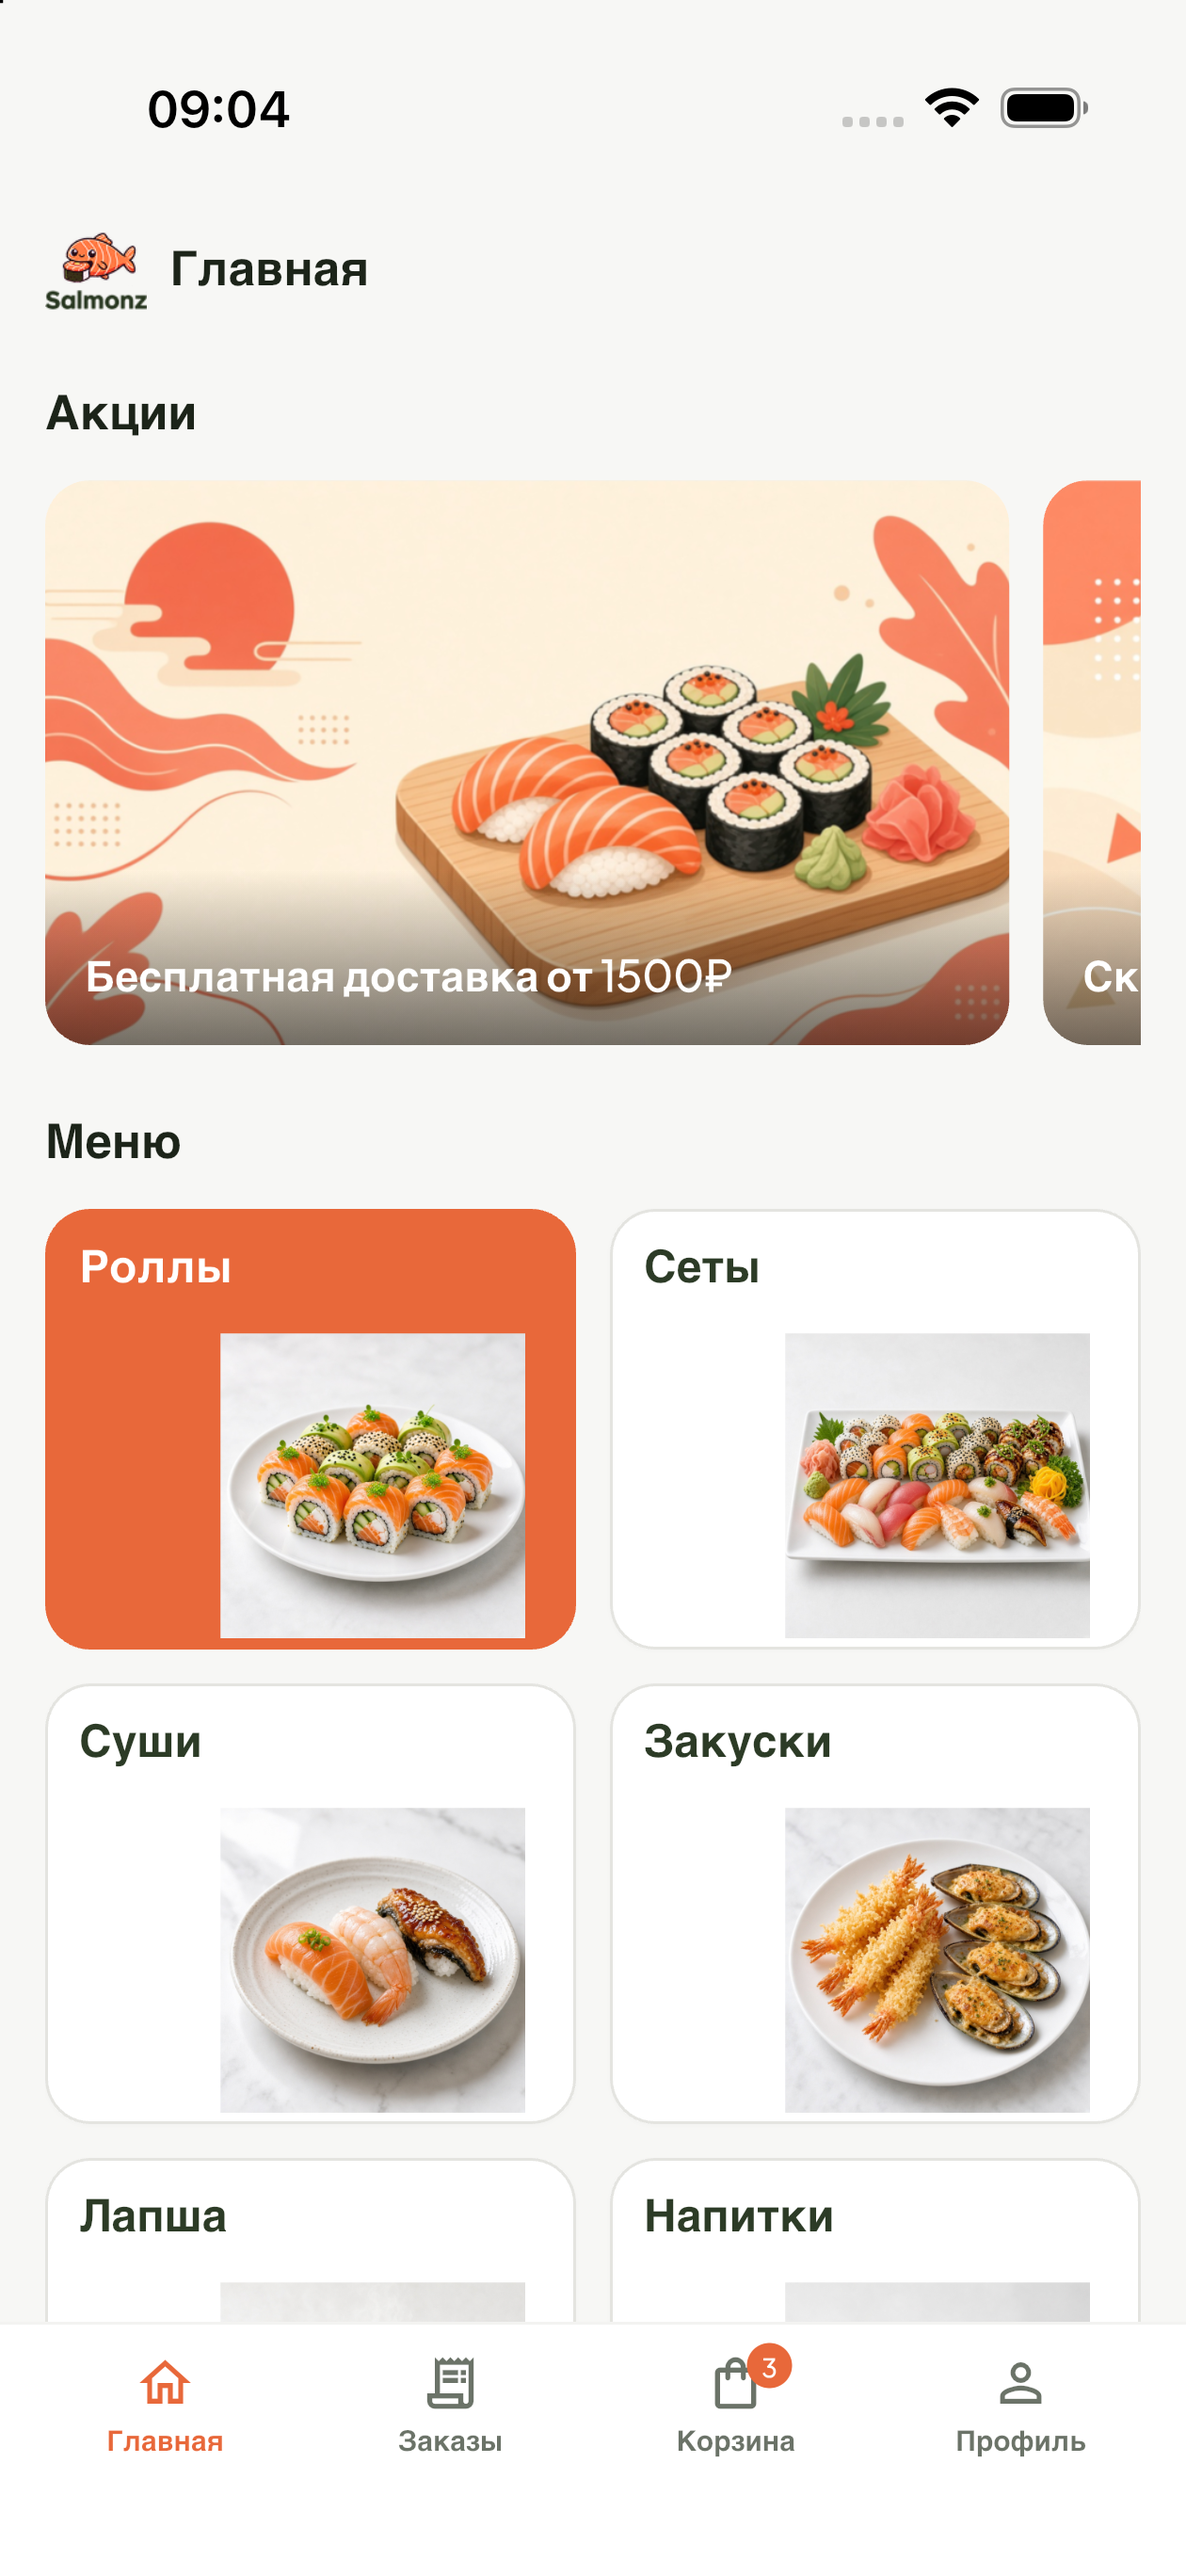
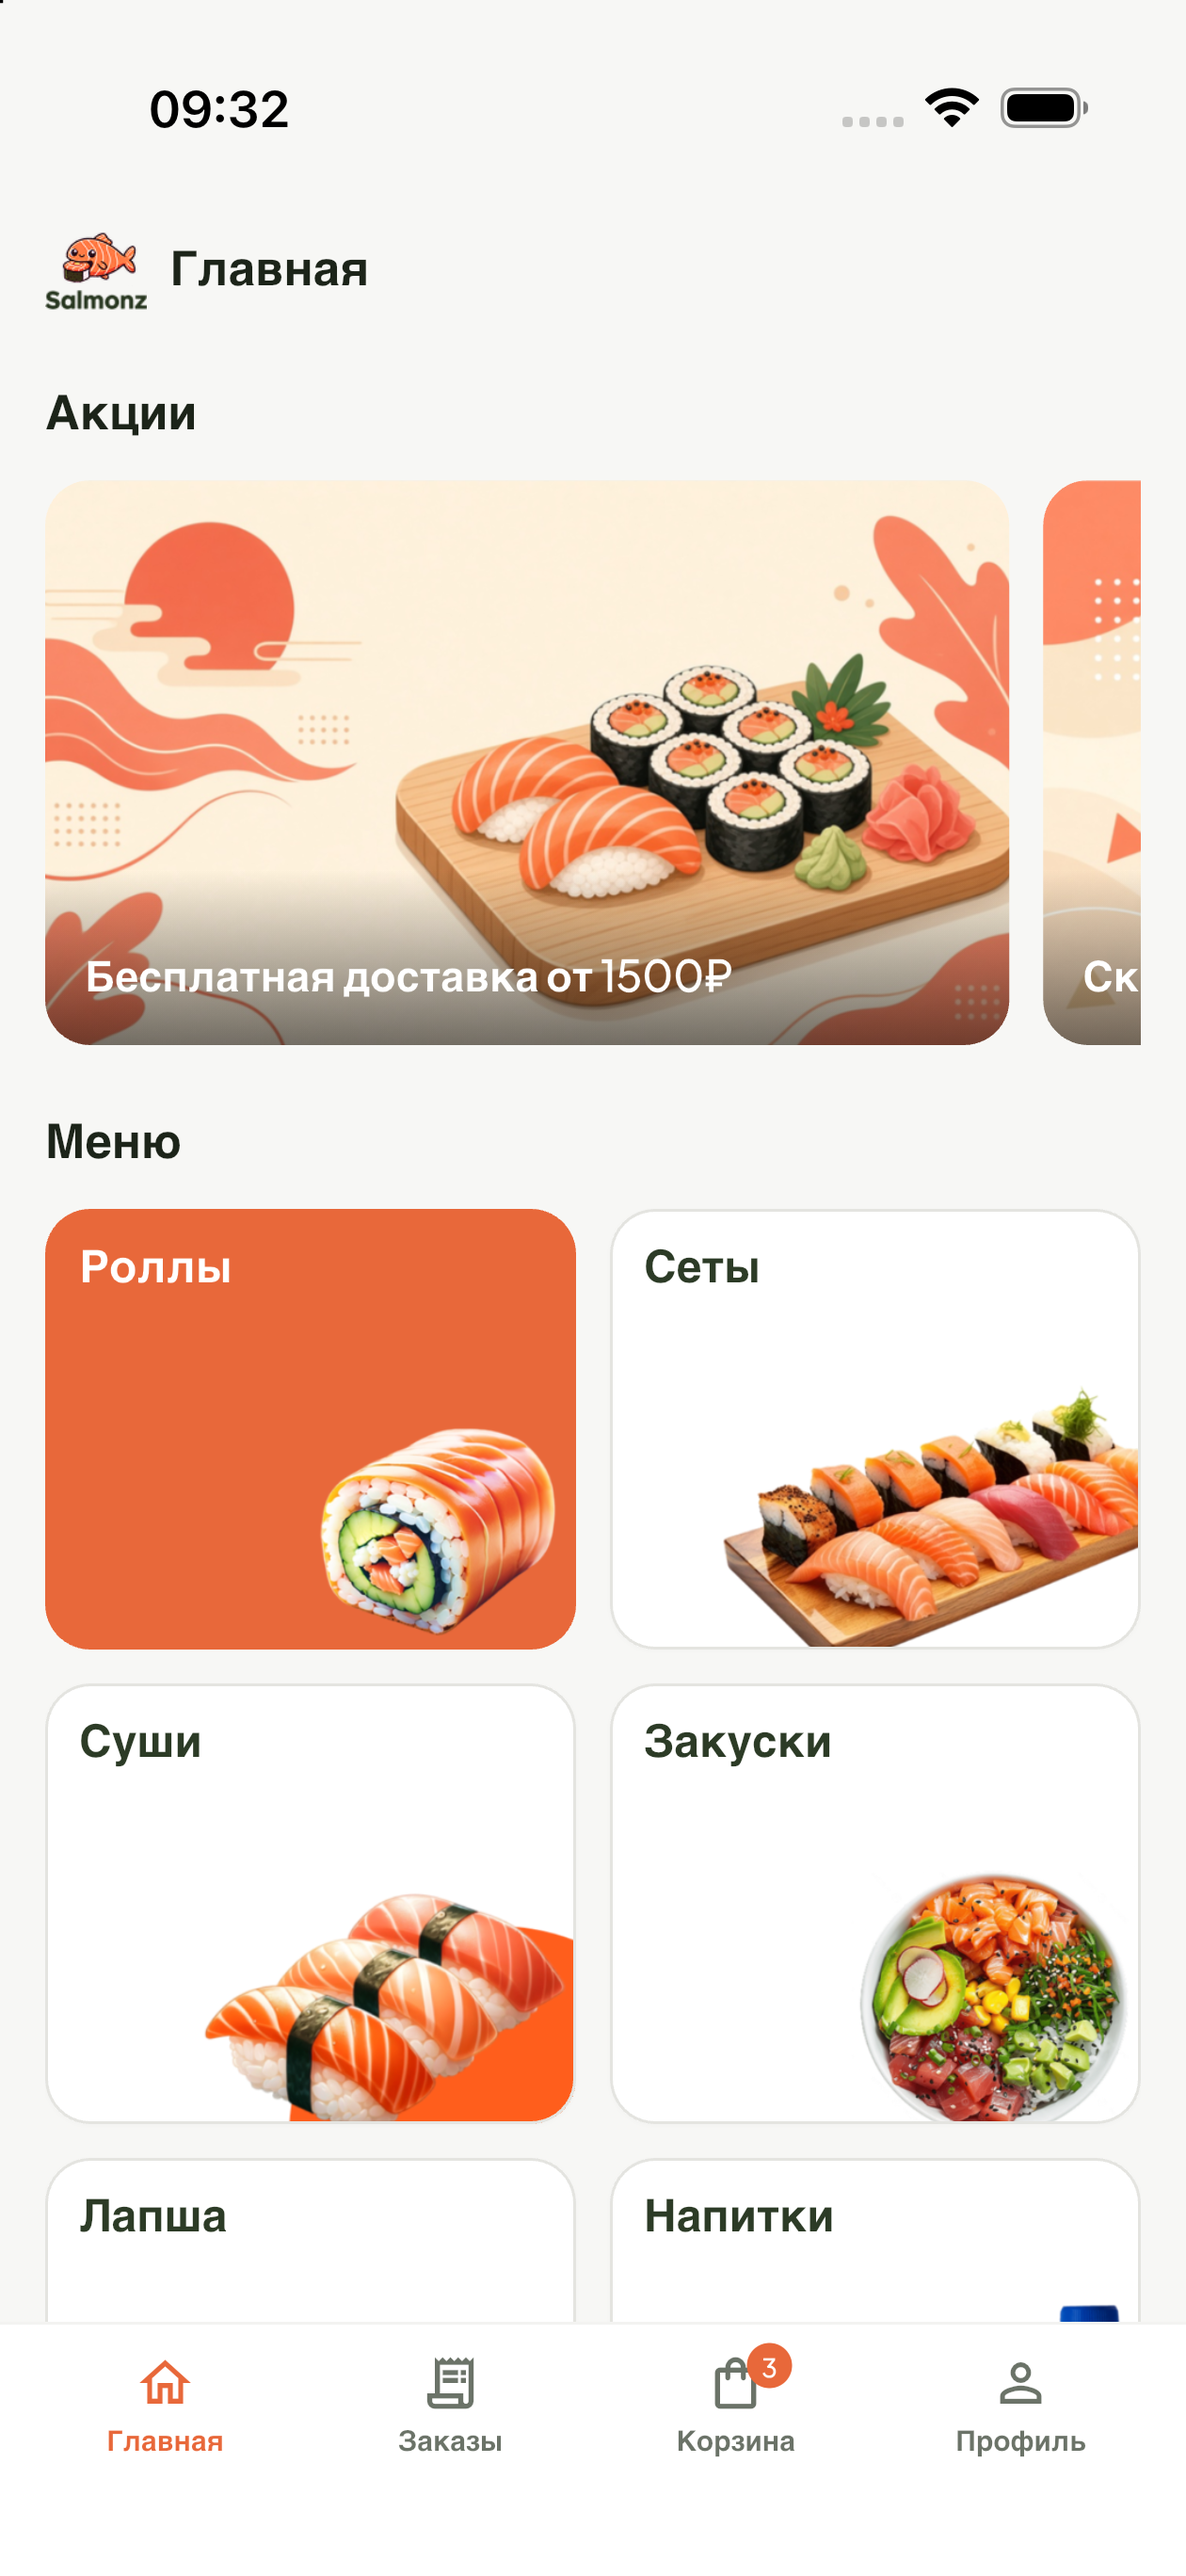
Упорядочил изображения и демонстрационные данные

diff --git a/backend/prisma/seed.ts b/backend/prisma/seed.ts
@@ -66,59 +66,57 @@ const CATEGORIES: CatDef[] = [
     slug: 'rolls',
     sortOrder: 1,
     folder: 'rolls',
-    imageCandidates: [
-      'demo/categories/rolls.png',
-      'main/rolls.png',
-    ],
+    // Transparent plates from assets/main — overlay on tinted home tiles.
+    imageCandidates: ['main/rolls.png'],
   },
   {
     name: 'Сеты',
     slug: 'sets',
     sortOrder: 2,
     folder: 'sets',
-    imageCandidates: ['demo/categories/sets.png', 'main/sets.png'],
+    imageCandidates: ['main/sets.png'],
   },
   {
     name: 'Суши',
     slug: 'sushi',
     sortOrder: 3,
     folder: 'sushi',
-    imageCandidates: ['demo/categories/sushi.png', 'main/sushi.png'],
+    imageCandidates: ['main/sushi.png'],
   },
   {
     name: 'Закуски',
     slug: 'snacks',
     sortOrder: 4,
     folder: 'snacks',
-    imageCandidates: ['demo/categories/snacks.png', 'main/zakuski.png'],
+    imageCandidates: ['main/zakuski.png'],
   },
   {
     name: 'Лапша',
     slug: 'noodles',
     sortOrder: 5,
     folder: 'noodles',
-    imageCandidates: ['demo/categories/noodles.png', 'main/lapsha.png'],
+    imageCandidates: ['main/lapsha.png'],
   },
   {
     name: 'Напитки',
     slug: 'drinks',
     sortOrder: 6,
     folder: 'drinks',
-    imageCandidates: ['demo/categories/drinks.png', 'main/bootls.png'],
+    imageCandidates: ['main/bootls.png'],
   },
   {
     name: 'Десерты',
     slug: 'deserts',
     sortOrder: 7,
     folder: 'deserts',
-    imageCandidates: ['demo/categories/deserts.png', 'main/cakes.png'],
+    imageCandidates: ['main/cakes.png'],
   },
   {
     name: 'Соусы',
     slug: 'sauce',
     sortOrder: 8,
     folder: 'sauce',
-    imageCandidates: ['demo/categories/sauce.png', 'main/souses.png'],
+    imageCandidates: ['main/souses.png'],
   },
 ];
 
@@ -440,7 +438,22 @@ async function seedCatalog() {
 
   for (const c of CATEGORIES) {
     const imageKey = `categories/${c.slug}.png`;
-    await resolveAndUpload(c.imageCandidates, imageKey);
+    const existingCat = await prisma.category.findUnique({
+      where: { slug: c.slug },
+    });
+    // Do not overwrite an image the admin already set. Only upload/bind when
+    // creating or when the row still has no imageKey.
+    const shouldBindImage = !existingCat?.imageKey;
+    if (shouldBindImage || process.env.SEED_REFRESH_DEFAULT_MEDIA === '1') {
+      // Refresh allowed only for the canonical demo key, never for custom keys.
+      if (
+        shouldBindImage ||
+        !existingCat?.imageKey ||
+        existingCat.imageKey === imageKey
+      ) {
+        await resolveAndUpload(c.imageCandidates, imageKey);
+      }
+    }
     const row = await prisma.category.upsert({
       where: { slug: c.slug },
       create: {
@@ -454,7 +467,7 @@ async function seedCatalog() {
         name: c.name,
         isActive: true,
         sortOrder: c.sortOrder,
-        imageKey,
+        ...(shouldBindImage ? { imageKey } : {}),
       },
     });
     categoryIds.set(c.slug, row.id);
@@ -481,12 +494,18 @@ async function seedCatalog() {
         weight: 200,
       };
       const imageKey = `products/${c.folder}/${file}`;
-      await uploadFile(path.join(dir, file), imageKey);
-
       const categoryId = categoryIds.get(c.slug)!;
       const existing = await prisma.product.findFirst({
         where: { name: meta.name, categoryId },
       });
+      const bindImage =
+        !existing?.imageKey ||
+        (process.env.SEED_REFRESH_DEFAULT_MEDIA === '1' &&
+          (!existing.imageKey || existing.imageKey === imageKey));
+      if (bindImage) {
+        await uploadFile(path.join(dir, file), imageKey);
+      }
+
       const data = {
         categoryId,
         name: meta.name,
@@ -494,14 +513,16 @@ async function seedCatalog() {
         price: meta.price,
         oldPrice: meta.oldPrice ?? null,
         weight: meta.weight ?? null,
-        imageKey,
         isAvailable: true,
         sortOrder: sort++,
+        ...(bindImage || !existing ? { imageKey } : {}),
       };
       if (existing) {
         await prisma.product.update({ where: { id: existing.id }, data });
       } else {
-        await prisma.product.create({ data });
+        await prisma.product.create({
+          data: { ...data, imageKey },
+        });
       }
       productCount++;
     }
@@ -565,7 +586,7 @@ async function seedCatalog() {
     {
       title: '2 ролла по цене 1',
       description: 'На классические роллы в будние дни',
-      candidates: ['promotions/promotion4.png', 'demo/banners/home_hero.png'],
+      candidates: ['promotions/promotion4.png', 'promotions/promotion1.png'],
       key: 'promotions/promo_two_for_one.png',
       sortOrder: 4,
     },
